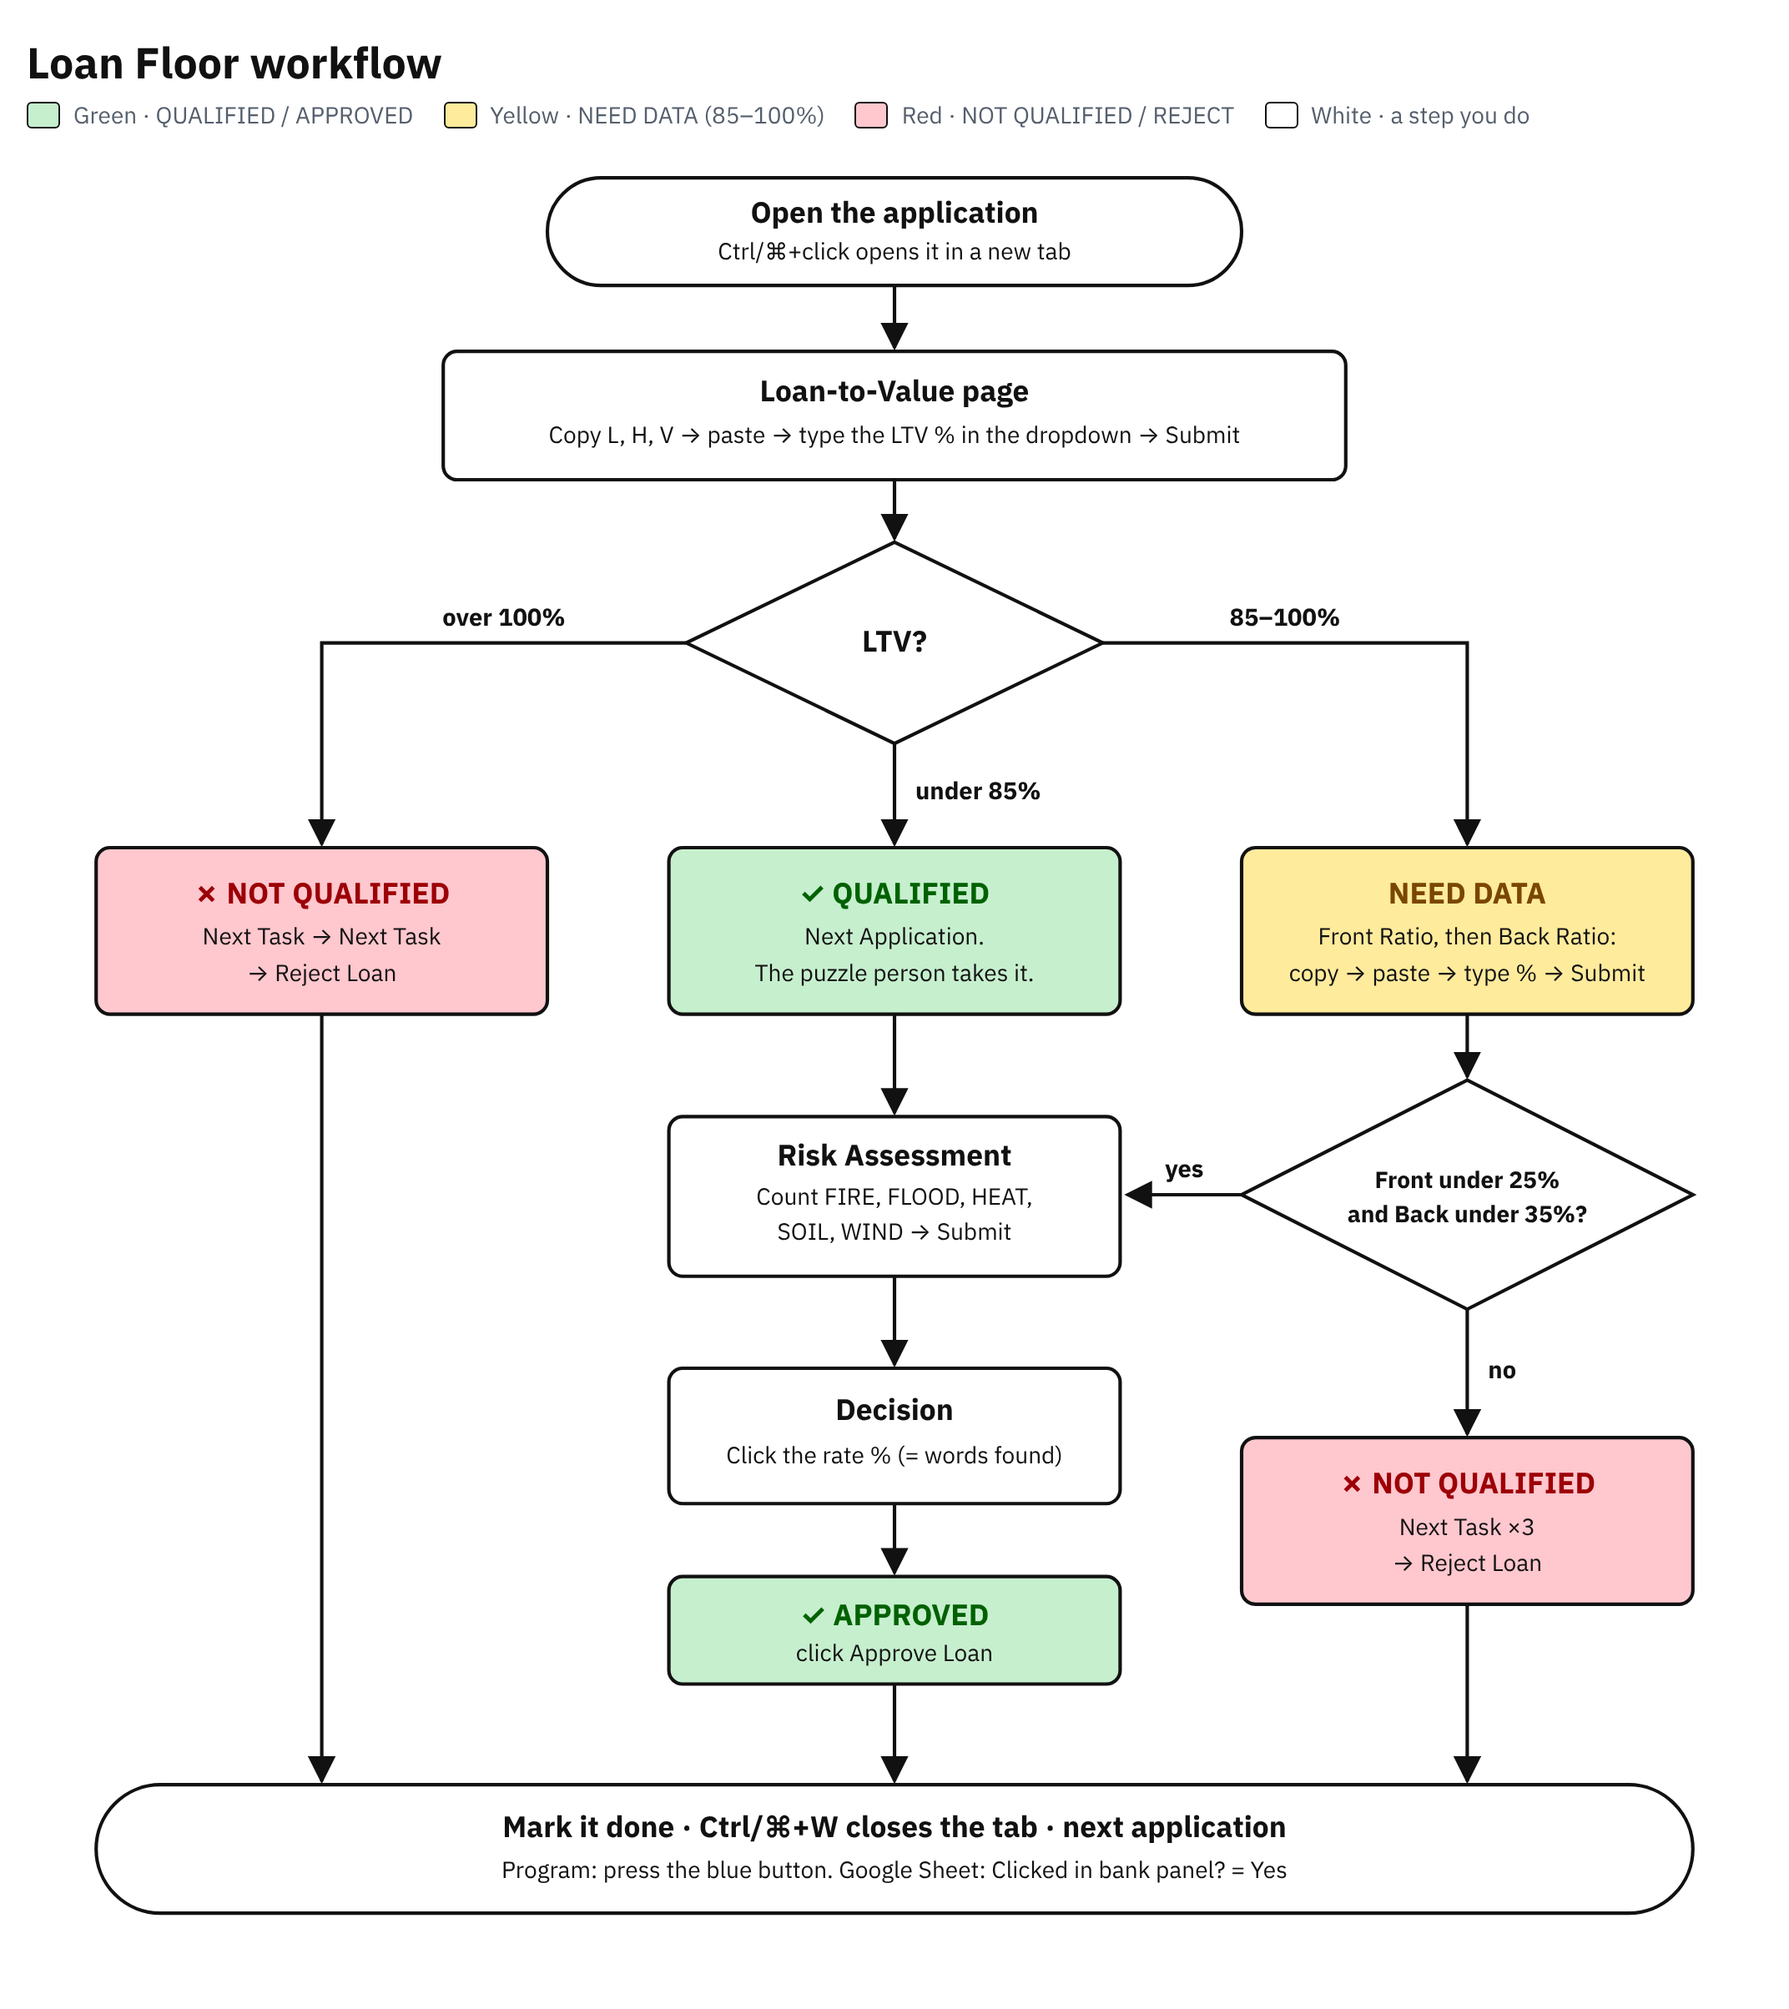
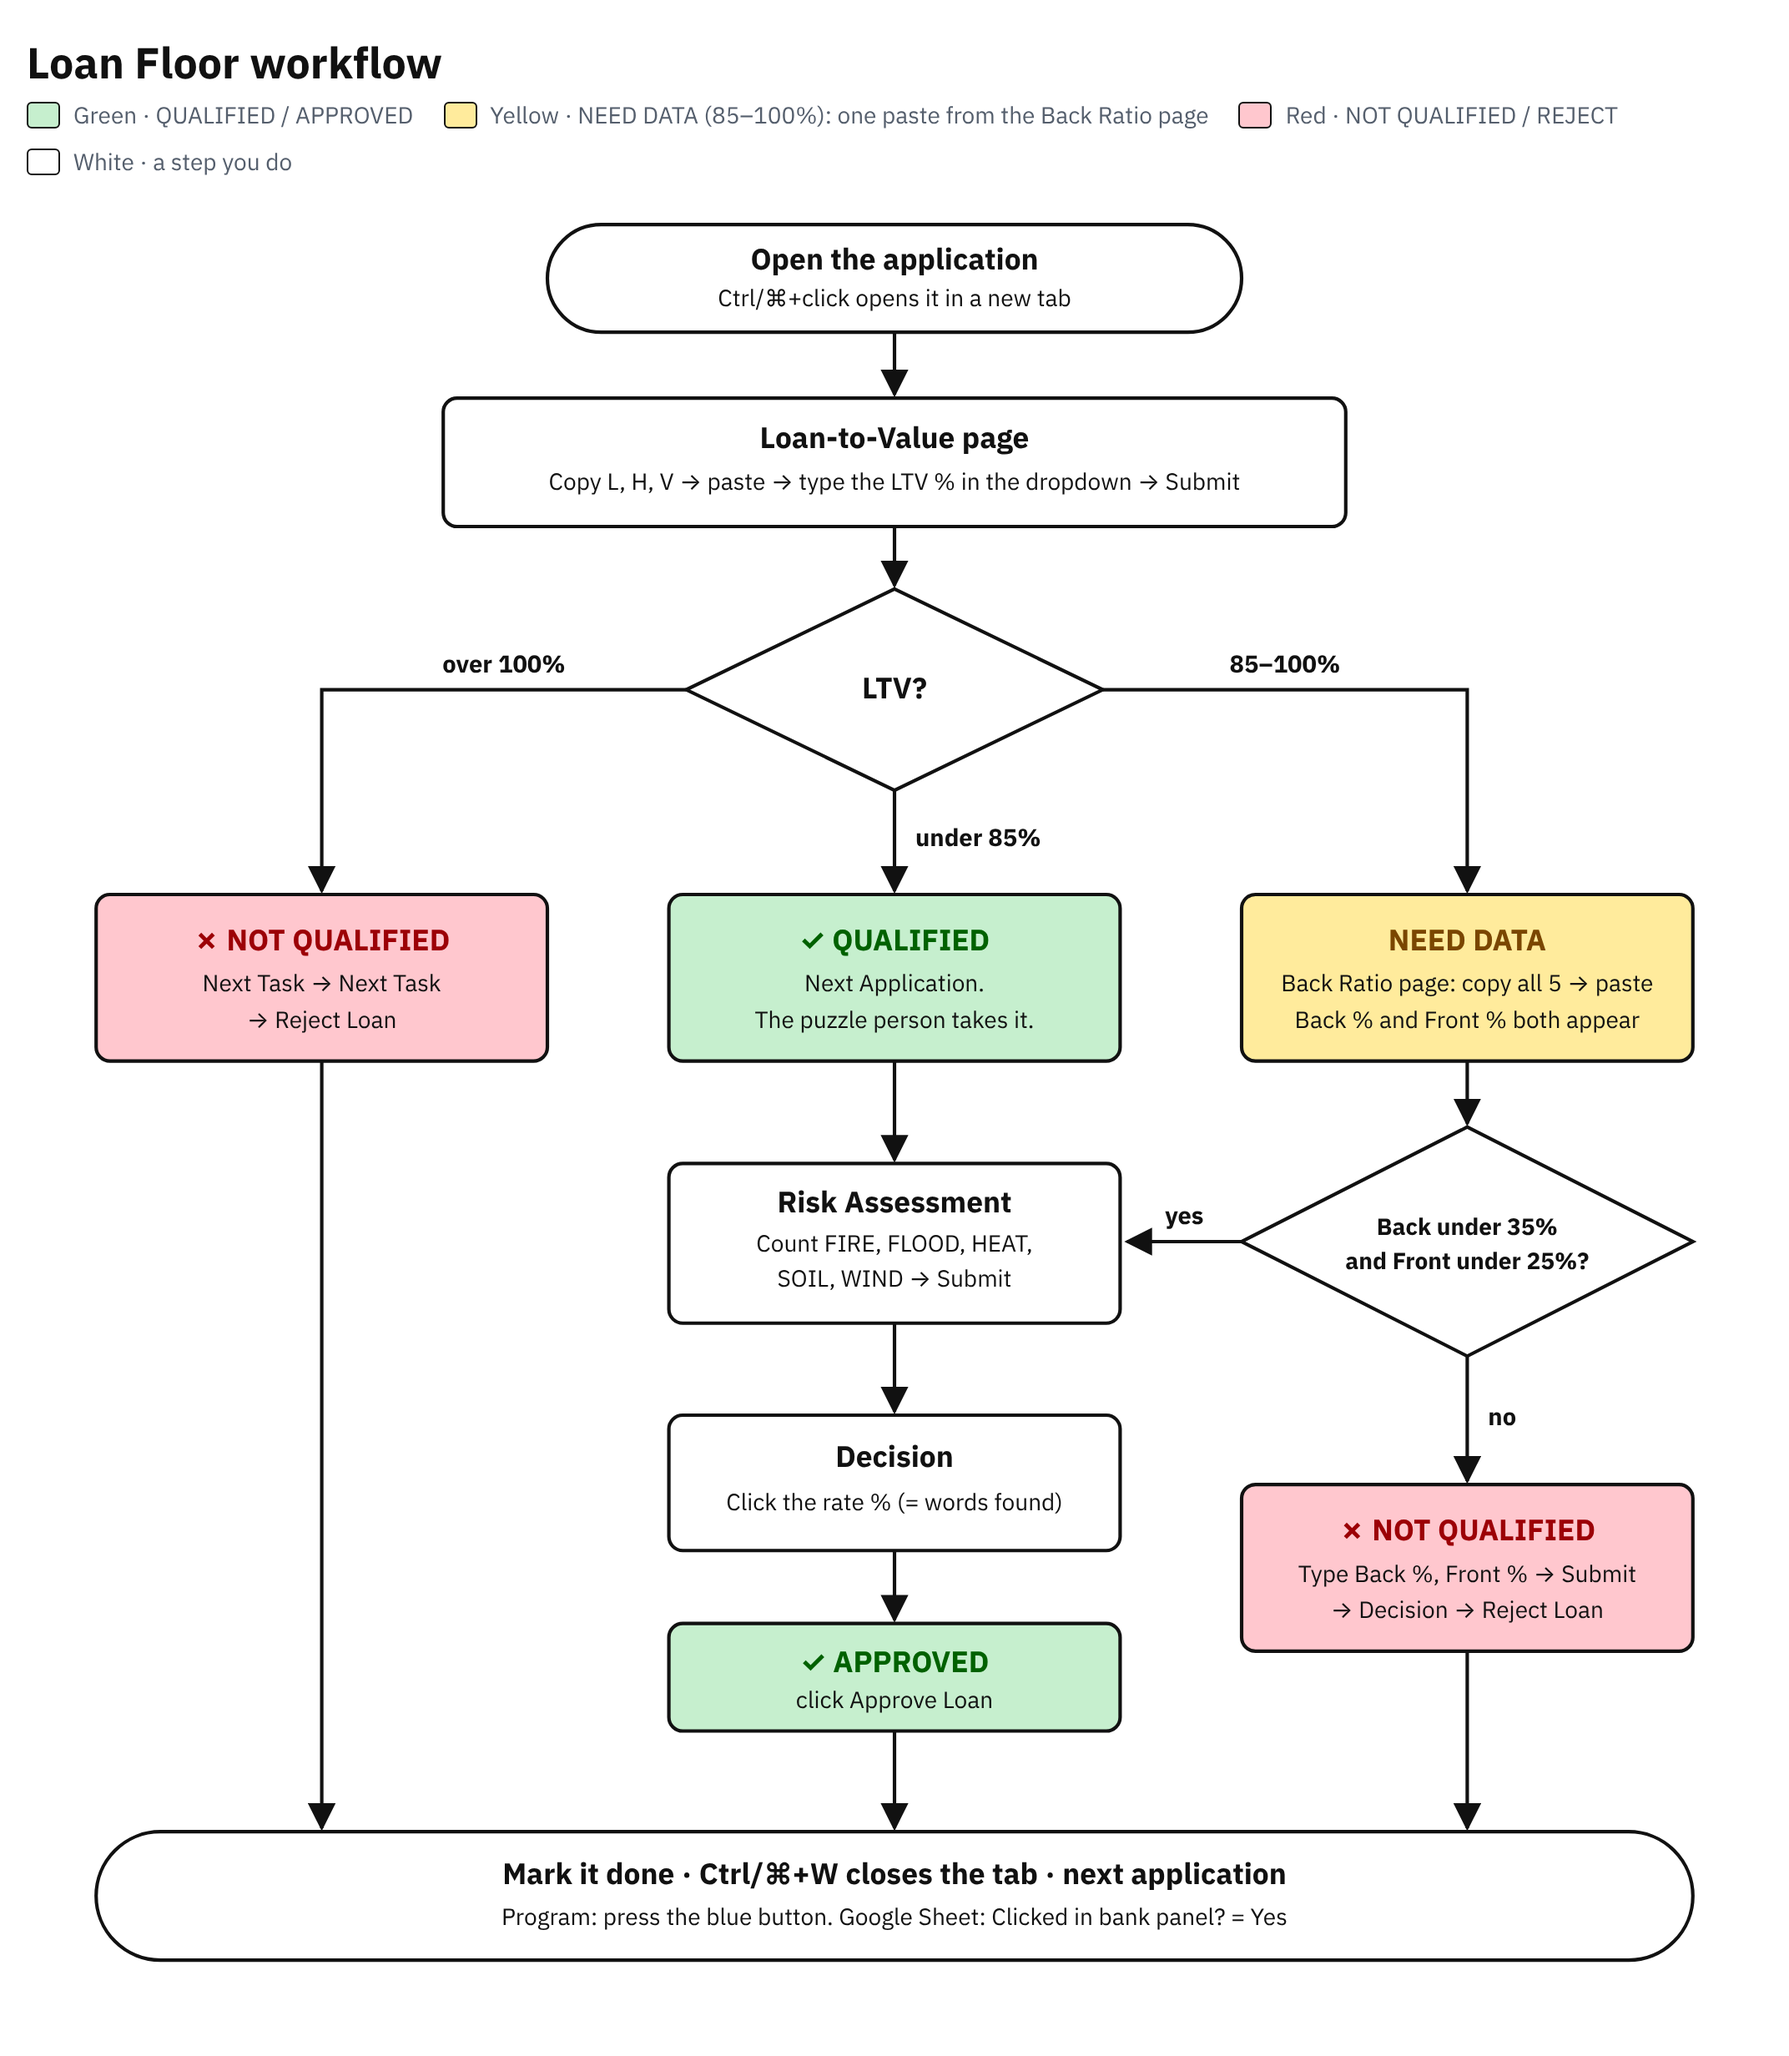
Workflow chart and Google Sheet: one Back Ratio paste gives both ratios, Back shown first
Claude-Session: https://claude.ai/code/session_01HiA1Grbyqmgb6Hssmb1xaU

diff --git a/Workflow.html b/Workflow.html
@@ -69,14 +69,14 @@ svg text{font-family:var(--f);fill:var(--ink)}
   <h1>Loan Floor workflow</h1>
   <div class="legend">
     <span><i style="background:var(--g-bg)"></i>Green · QUALIFIED / APPROVED</span>
-    <span><i style="background:var(--y-bg)"></i>Yellow · NEED DATA (85–100%)</span>
+    <span><i style="background:var(--y-bg)"></i>Yellow · NEED DATA (85–100%): one paste from the Back Ratio page</span>
     <span><i style="background:var(--r-bg)"></i>Red · NOT QUALIFIED / REJECT</span>
     <span><i style="background:var(--box)"></i>White · a step you do</span>
   </div>
   <div class="chart">
   <svg viewBox="0 0 1000 1030" role="img" aria-labelledby="wfT wfD">
     <title id="wfT">Loan Floor workflow</title>
-    <desc id="wfD">Open the application, do the LTV. Over 100% is red: reject. Under 85% is green: qualified, the puzzle person approves. 85 to 100% is yellow: do Front and Back ratios; if Front is under 25% and Back under 35% it is qualified, otherwise red: reject. Every loan ends with mark done, close the tab, next application.</desc>
+    <desc id="wfD">Open the application, do the LTV. Over 100% is red: reject. Under 85% is green: qualified, the puzzle person approves. 85 to 100% is yellow: paste the 5 amounts from the Back Ratio page, which gives both ratios; if Back is under 35% and Front under 25% it is qualified, otherwise red: reject. Every loan ends with mark done, close the tab, next application.</desc>
     <defs><marker id="ah" viewBox="0 0 10 10" refX="9" refY="5" markerWidth="8" markerHeight="8" orient="auto-start-reverse"><path class="arrowhead" d="M0,0 L10,5 L0,10 z"/></marker></defs>
 
     <!-- start -->
@@ -118,14 +118,14 @@ svg text{font-family:var(--f);fill:var(--ink)}
     <!-- yellow -->
     <rect class="bx y" x="700" y="400" width="260" height="96" rx="8"/>
     <text x="830" y="432" text-anchor="middle" class="t1 ty">NEED DATA</text>
-    <text x="830" y="456" text-anchor="middle" class="t2">Front Ratio, then Back Ratio:</text>
-    <text x="830" y="477" text-anchor="middle" class="t2">copy → paste → type % → Submit</text>
+    <text x="830" y="456" text-anchor="middle" class="t2">Back Ratio page: copy all 5 → paste</text>
+    <text x="830" y="477" text-anchor="middle" class="t2">Back % and Front % both appear</text>
     <path class="line" d="M830,496 V532" marker-end="url(#ah)"/>
 
     <!-- decision 2 -->
     <polygon class="bx" points="830,534 960,600 830,666 700,600"/>
-    <text x="830" y="596" text-anchor="middle" class="t2" style="font-weight:700">Front under 25%</text>
-    <text x="830" y="616" text-anchor="middle" class="t2" style="font-weight:700">and Back under 35%?</text>
+    <text x="830" y="596" text-anchor="middle" class="t2" style="font-weight:700">Back under 35%</text>
+    <text x="830" y="616" text-anchor="middle" class="t2" style="font-weight:700">and Front under 25%?</text>
     <path class="line" d="M700,600 H634" marker-end="url(#ah)"/>
     <text x="667" y="590" text-anchor="middle" class="lab">yes</text>
     <path class="line" d="M830,666 V738" marker-end="url(#ah)"/>
@@ -149,8 +149,8 @@ svg text{font-family:var(--f);fill:var(--ink)}
     <!-- red 2 -->
     <rect class="bx r" x="700" y="740" width="260" height="96" rx="8"/>
     <text x="830" y="772" text-anchor="middle" class="t1 tr">✗ NOT QUALIFIED</text>
-    <text x="830" y="796" text-anchor="middle" class="t2">Next Task ×3</text>
-    <text x="830" y="817" text-anchor="middle" class="t2">→ Reject Loan</text>
+    <text x="830" y="796" text-anchor="middle" class="t2">Type Back %, Front % → Submit</text>
+    <text x="830" y="817" text-anchor="middle" class="t2">→ Decision → Reject Loan</text>
 
     <!-- to the end -->
     <path class="line" d="M170,496 V938" marker-end="url(#ah)"/>

diff --git a/Practice.html b/Practice.html
@@ -498,9 +498,9 @@ function renderSheet(){
   h += '<div class="sblock"><div class="sgrid"><div class="h">STEP 1 · Loan-to-Value page</div><div></div><div></div><div class="ptitle">▼ PASTE (top cell)</div>' +
     zone("1", S.z1, ["Loan Amount (L)","House Price (H)","Appraisal Value (V)"], ["L","H","V"]) + '</div>' +
     '<div class="srow"><span>LTV → type in panel</span><span class="bignum ' + (ss.ltv == null ? "" : ss.ltv > 1 ? "r" : ss.ltv >= .85 ? "y" : "g") + '">' + (ss.ltv == null ? "–" : r100(ss.ltv)) + '</span><button type="button" class="clr" data-clear="1">clear</button></div></div>';
-  h += '<div class="sblock"><div class="sgrid"><div class="h' + (ss.st === "y" ? " need" : "") + '">STEP 2 · Front / Back Ratio pages (only if YELLOW)</div><div></div><div></div><div class="ptitle">▼ PASTE (top cell)</div>' +
+  h += '<div class="sblock"><div class="sgrid"><div class="h' + (ss.st === "y" ? " need" : "") + '">STEP 2 · Back Ratio page: paste all 5 (only if YELLOW)</div><div></div><div></div><div class="ptitle">▼ PASTE (top cell)</div>' +
     zone("2", S.z2, ["Yearly Income (I)","Additional Income (A)","Mortgage Payment (P)","Debt Expenses (DE)","Other Taxes (OT)"], ["I","A","P","DE","OT"]) + '</div>' +
-    '<div class="srow"><span>Front</span><span class="bignum ' + (ss.f == null ? "" : ss.f < .25 ? "g" : "r") + '">' + (ss.f == null ? "–" : r100(ss.f)) + '</span><span>Back</span><span class="bignum ' + (ss.b == null ? "" : ss.b < .35 ? "g" : "r") + '">' + (ss.b == null ? "–" : r100(ss.b)) + '</span><button type="button" class="clr" data-clear="2">clear</button></div></div>';
+    '<div class="srow"><span>Back</span><span class="bignum ' + (ss.b == null ? "" : ss.b < .35 ? "g" : "r") + '">' + (ss.b == null ? "–" : r100(ss.b)) + '</span><span>Front</span><span class="bignum ' + (ss.f == null ? "" : ss.f < .25 ? "g" : "r") + '">' + (ss.f == null ? "–" : r100(ss.f)) + '</span><button type="button" class="clr" data-clear="2">clear</button></div></div>';
   h += '<div class="status" id="sStatus"></div>';
   h += '<div class="sblock" style="margin-top:12px"><div class="sgrid" style="grid-template-columns:150px 78px"><div class="h">STEP 3 · Risk Assessment + Decision</div><div>Words found (0–5)</div><div class="p top" style="padding:0"><input id="sWords" type="number" min="0" max="5" value="' + esc(S.sWords) + '" style="width:100%;border:0;background:transparent;text-align:center"></div></div><div id="sStep3" style="font-weight:700"></div>' +
     '<div class="srow"><span>Clicked in bank panel?</span><select id="sClicked" aria-label="Clicked in bank panel"><option value=""></option><option' + (S.clicked === "Yes" ? " selected" : "") + '>Yes</option><option' + (S.clicked === "No" ? " selected" : "") + '>No</option></select></div></div></div>';
@@ -509,7 +509,7 @@ function renderSheet(){
 function renderSheetStatus(){
   const ss = sheetState(); const el = $("#sStatus"); if (!el) return;
   el.className = "status " + ss.st;
-  el.textContent = ({"": "PASTE L, H, V ABOVE", g: "✓ APPROVED — click Approve Loan", y: "NEED DATA — paste Front/Back in STEP 2", r: "✗ NOT QUALIFIED — submit Reject Loan, then this one is complete"})[ss.st];
+  el.textContent = ({"": "PASTE L, H, V ABOVE", g: "✓ APPROVED — click Approve Loan", y: "NEED DATA — paste the 5 Back Ratio amounts in STEP 2", r: "✗ NOT QUALIFIED — submit Reject Loan, then this one is complete"})[ss.st];
   const w = S.sWords; $("#sStep3").textContent = ss.st !== "g" ? "" : (w === "" ? "Do the puzzle, type words found" : "Click " + w + "% → Approve Loan → Next Application");
 }
 // typing straight into a sheet cell
